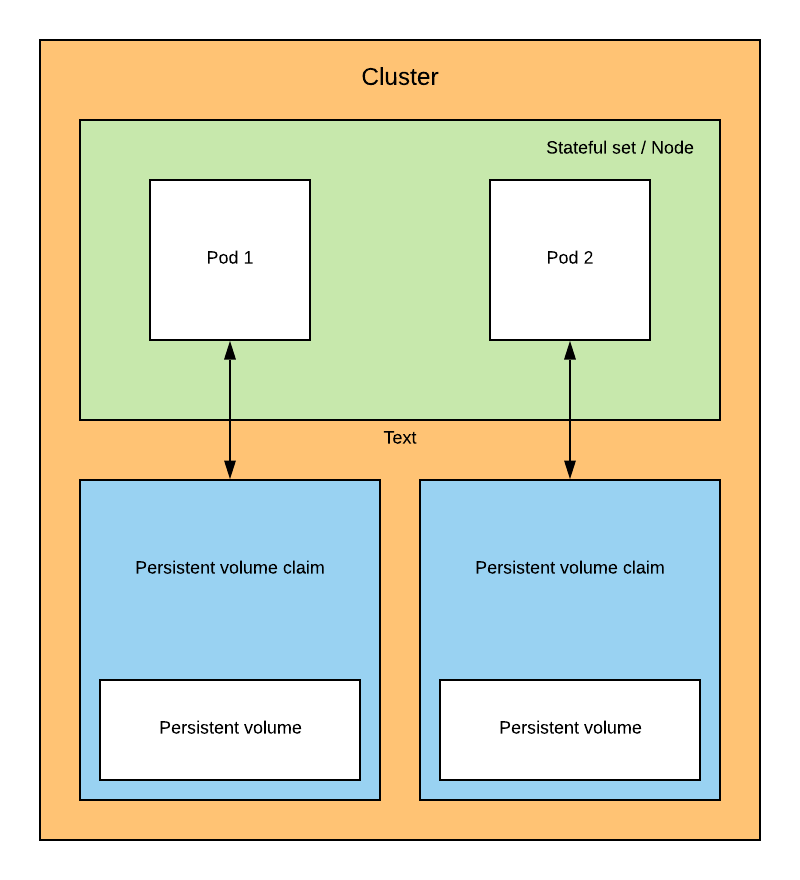
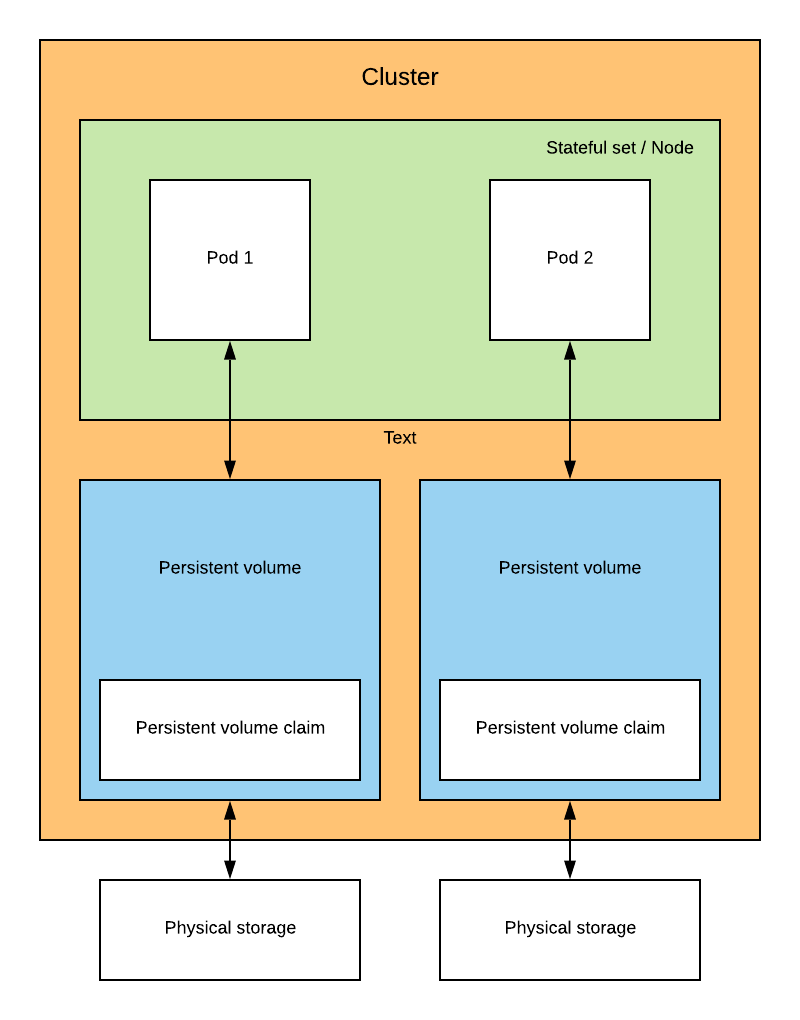
:memo: add persistent volume doc

diff --git a/docs/k8s/storage.md b/docs/k8s/storage.md
@@ -1,0 +1,64 @@
+## Persistent volume 💾
+
+With Kubernetes and the StatefulSet deployment you are able to deploy stateful pods within your Cluster.
+
+Deploying a Stateful application mean that this will involve a storage layer. Kubernetes provide a persistent volume API option for this kind of usage.
+
+## How does it work
+
+A Persistent Volume is a piece of storage located in the Cluster. As the Persistent volume isn't volatile as the Node & the pods. Persistent volume is the reason why it's located in the Cluster and not within a Node.
+
+Kubernetes support the following types of storage [type of storage](https://kubernetes.io/docs/concepts/storage/volumes/#types-of-volumes)
+
+Futhermore Persistent volume has a lifecycle. I suggest you to take a look at those [there](https://kubernetes.io/docs/concepts/storage/persistent-volumes/#lifecycle-of-a-volume-and-claim)
+
+Below is how the architecture can be between a PV and a Node
+
+<p align="center">
+  <img src="../img/statefulset.png" alt="drawing" width="450"/>  
+  <p align="center"><b>Representation of a statefulset with a storage</b></p>
+</p>
+
+## Types of Persistent volume 📁
+
+There are 2 types of persistent volume. Below is the definition of each of them right from the Kubernetes documentation 
+
+### Static 💿
+
+Static provisioning allow a Cluster administrator to expose a set of persistent storage to the Cluster
+
+> A cluster administrator creates a number of PVs. They carry the details of the real storage which is available for use by cluster users. They exist in the Kubernetes API and are available for consumption.
+
+### Dynamic 🖥
+
+> When none of the static PVs the administrator created matches a user’s PersistentVolumeClaim, the cluster may try to dynamically provision a volume specially for the PVC. This provisioning is based on StorageClasses: the PVC must request a storage class and the administrator must have created and configured that class in order for dynamic provisioning to occur.
+
+This dynamic solution remove a lot of headache regarding how to create, delete and size up your storage.
+
+Moreover if you don't have a lot of knowledges in this field like me the writer 😅.
+
+It's far better to let the Kubernetes engine do the allocation of storage for us
+
+## Components
+
+As we said in the section *How does it work*. The persistent claim (PV) is located in the Cluster.
+
+In order to define the behavior of the Persistent volume, Kubernetes is using a PersistentVolumeClaim (PVC). This PVC allow us to define several options such as size, access-modes, labels.
+
+While extensible if you need to have even more flexibility Kubernetes offer a deeper customization throught the ```StorageClass``` resources
+
+## Access modes 🔏
+
+Creating a storage required you to define an access mode to your storage. Currently there are **3 types** of access mode available
+
+- ReadWriteOnce: a volume can be mounted as read-write by a single node
+- ReadOnlyMany: a volume can be mounted read-only by many nodes
+- ReadWriteMany: a volume can be mounted as read-write by many nodes
+
+## Resources
+
+[Kubernetes storage introduction by IBM](https://console.bluemix.net/docs/containers/cs_storage_basics.html#kube_concepts)
+
+[Kubernetes storage documentation](https://kubernetes.io/docs/concepts/storage/persistent-volumes/)
+
+

diff --git a/docs/k8s/intro.md b/docs/k8s/intro.md
@@ -46,7 +46,7 @@ As said in the main README. Kubernetes is a complex piece of software. Therefore
 * [Architecture](architecture.md)
 * [Deployment](deployment.md)
 * [Service](services.md)
-* [Storage](storage.md)
+* [Persistent volume](storage.md)
 * [Cron task](cron.md)
 * [Minikube](minikube.md)
 * [Example with Minikube](deployment/example.md)
